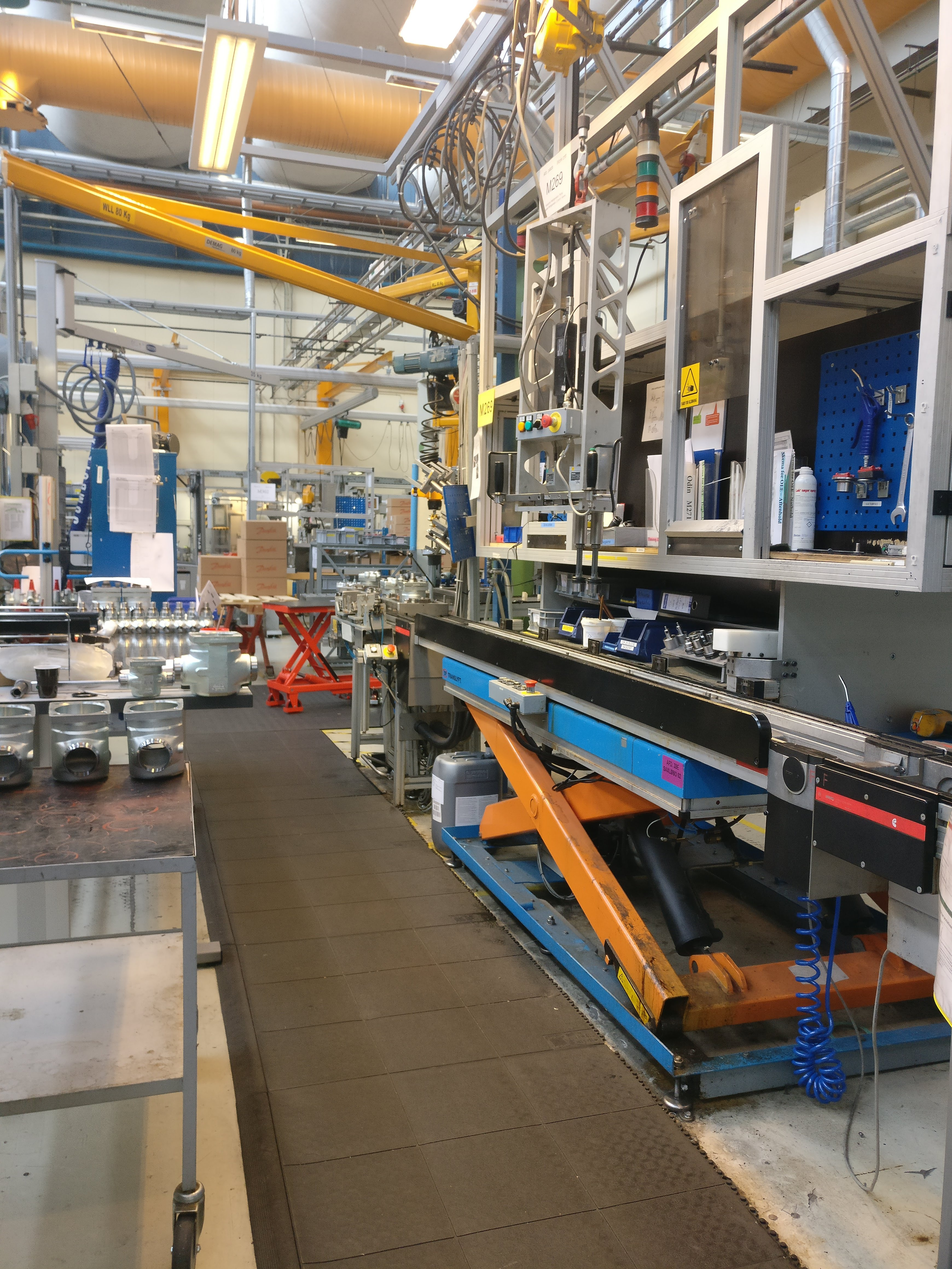
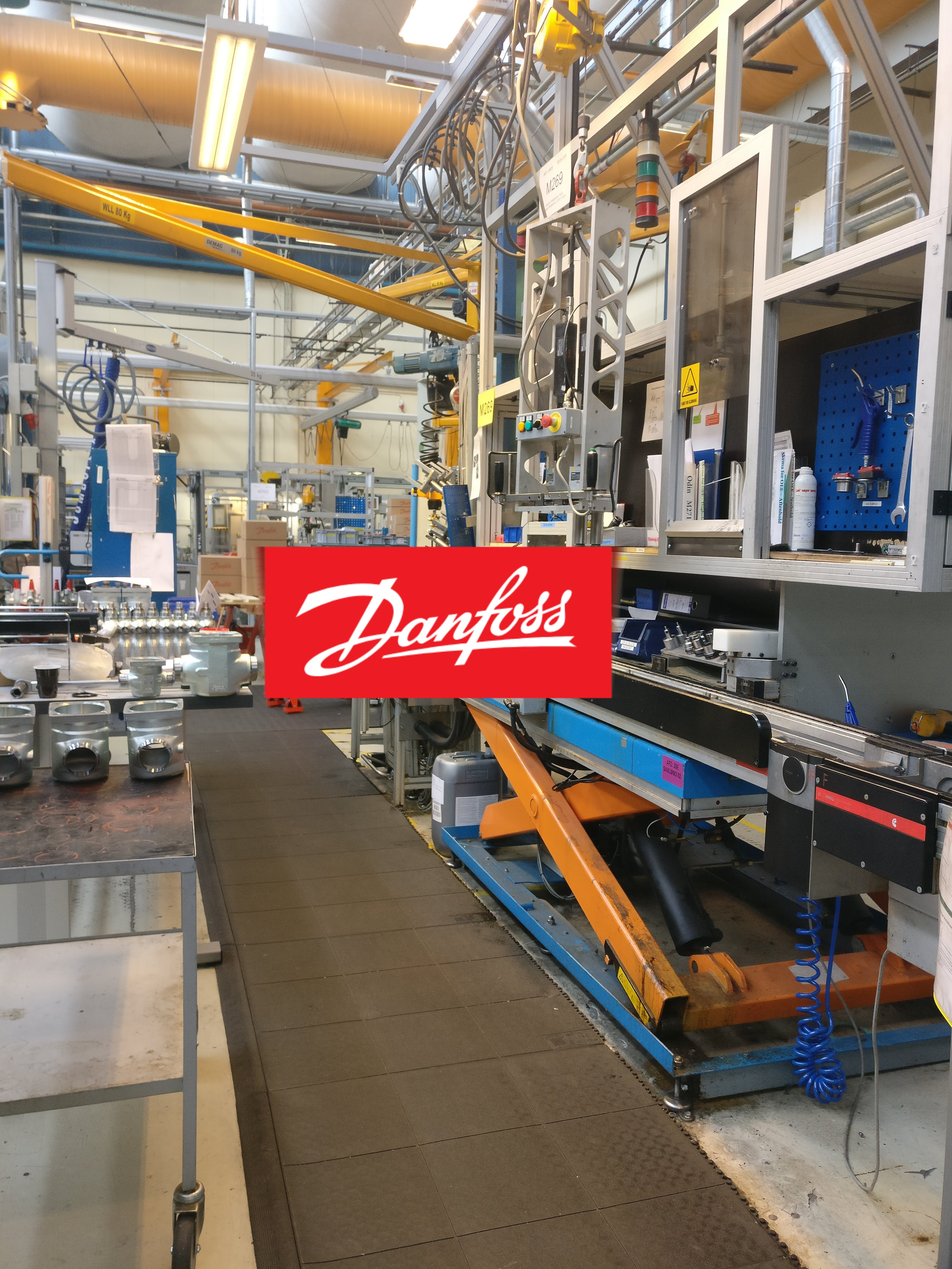
Opdateret about-sektion

Changed region(s): [[0.2483, 0.4062, 0.6517, 0.5625]]

diff --git a/_tabs/about.md b/_tabs/about.md
@@ -4,5 +4,14 @@ icon: fas fa-info-circle
 order: 4
 ---
 
-> Add Markdown syntax content to file _tabs/about.md{: .filepath } and it will show up on this page.
-{: .prompt-tip }
+## 👋 Hej, jeg er Sebastian
+
+Jeg er civilingeniør i Product Development & Innovation med erfaring inden for både produktudvikling, 3D-print, bæredygtighed og procesoptimering.  
+Min profil kombinerer hands-on innovation med strategisk tænkning og formidling.
+
+Jeg har arbejdet med alt fra egen startup til globale virksomheder som Grundfos og Danfoss – og jeg brænder for at skabe løsninger, der gør en reel forskel for brugeren og forretningsmodellen.
+
+> *“Jeg motiveres af mennesker, samarbejde og at skabe løsninger, der gør en forskel.”*
+
+📍 Odense • ✉ [sebastian.i.o@hotmail.com](mailto:sebastian.i.o@hotmail.com)  
+🔗 [LinkedIn](https://www.linkedin.com/in/sebastian-overbeck)

diff --git a/_posts/2025-06-07-printle.md b/_posts/2025-06-07-printle.md
@@ -60,7 +60,9 @@ Jeg valgte at afslutte virksomheden i 2024 for at søge nye veje og bruge mine k
 
 ---
 
-![Printle setup](/assets/img/printle-setup.jpg)
 ![Pokaler for Yousee](/assets/img/printle-yousee.jpg)
+> — Yousee pokaler
 ![Undervisning ved AMU Syd](/assets/img/printle-amu.jpg)
+> — Undervisning hos AMU Syd
 ![3D-printer til United Components](/assets/img/printle-uc.jpg)
+> — Printer til United Components
